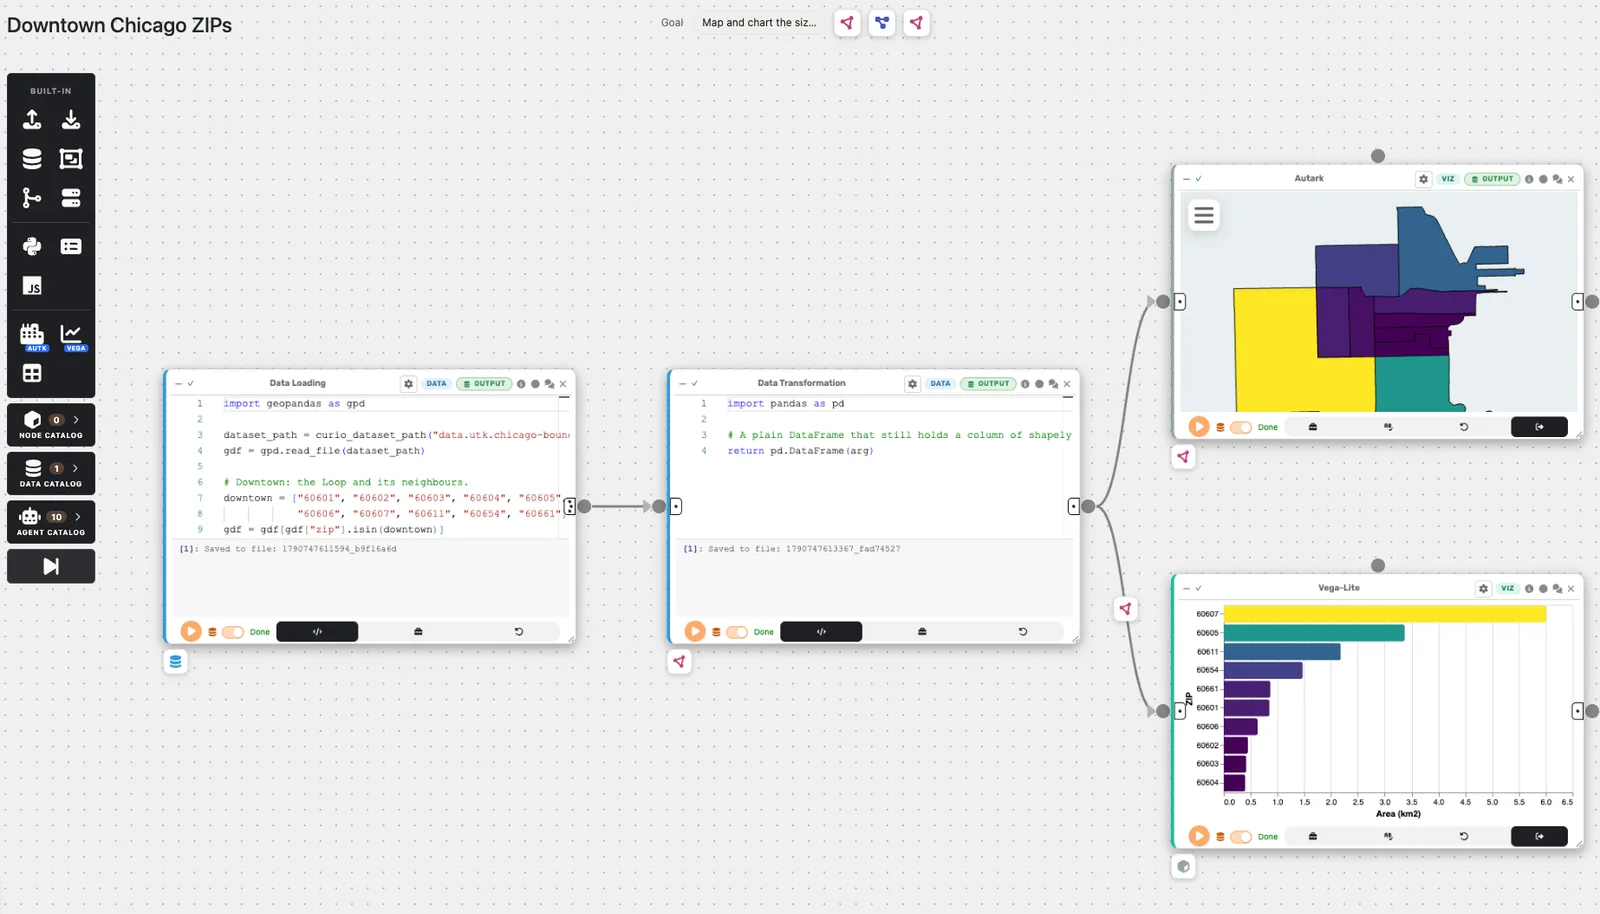
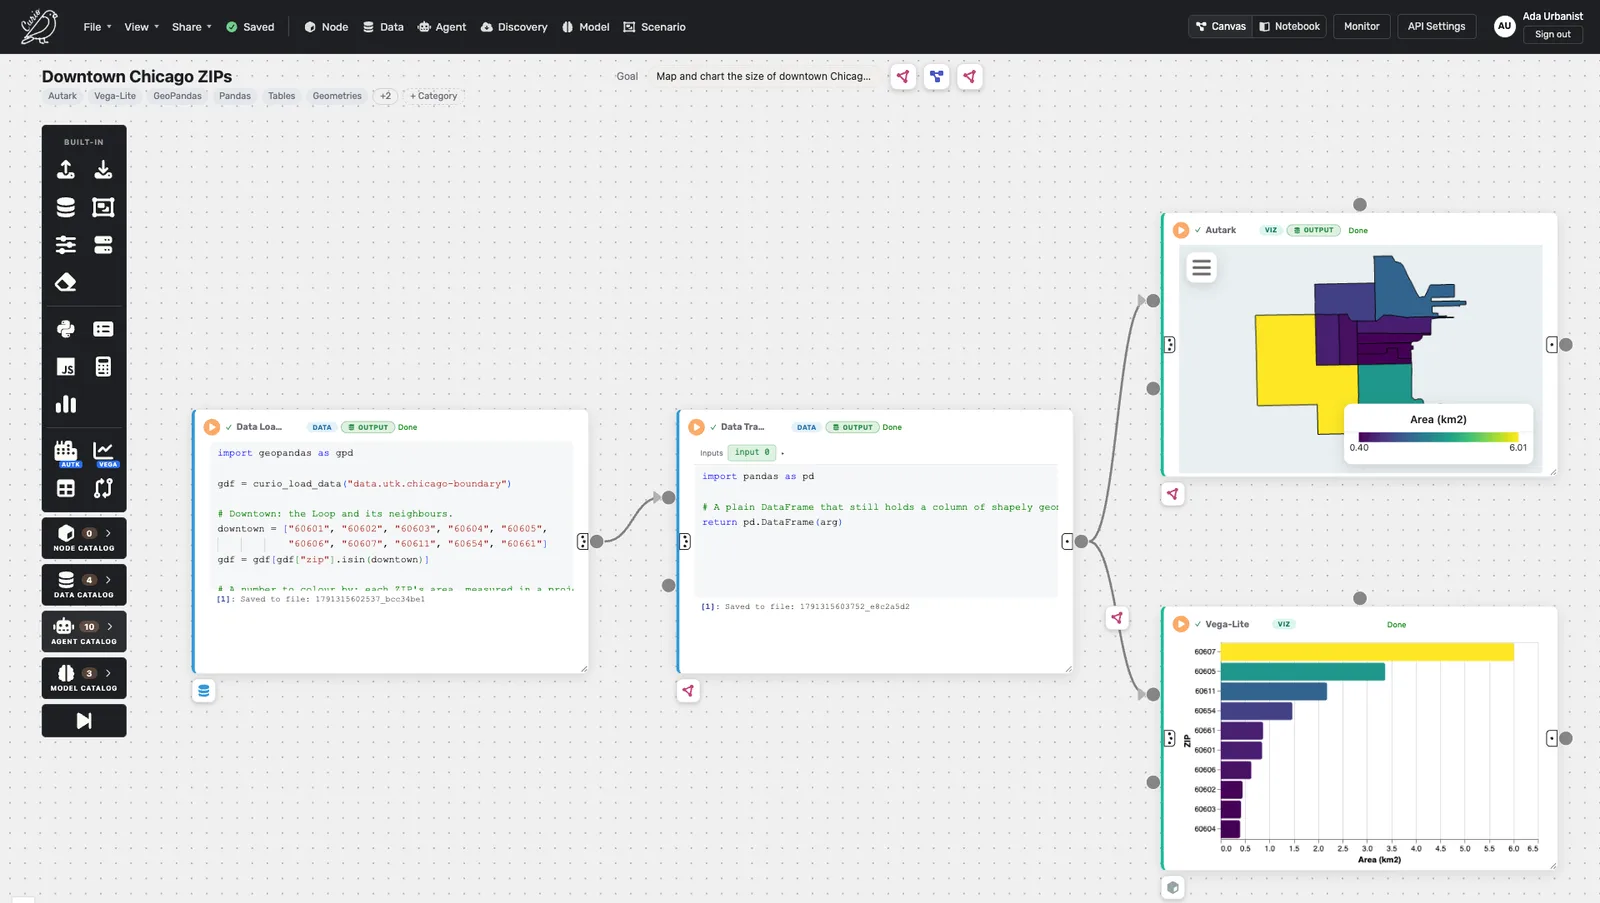
Scenarios, Scenario Catalog, widgets, SCOUT and node authoring stills; home still with the six catalog buttons

diff --git a/site/.vitepress/theme/components/CatalogFlow.vue b/site/.vitepress/theme/components/CatalogFlow.vue
@@ -96,20 +96,20 @@ interface Mark {
 }
 const SHOT: { src: string; alt: string; w: number; h: number; marks: Mark[] } = {
   src: '/media/home/catalogs.webp',
-  alt: "A dataflow in Curio: a Data Loading node and a Data Transformation node feed an Autark map and a Vega-Lite bar chart of downtown Chicago's ZIP codes, with agents attached to every node, to a connection and to the canvas.",
+  alt: "A dataflow in Curio, under the top bar with its six catalogs: a Data Loading node and a Data Transformation node feed an Autark map and a Vega-Lite bar chart of downtown Chicago's ZIP codes, with agents attached to every node, to a connection and to the canvas.",
   w: 1600,
-  h: 914,
+  h: 903,
   marks: [
-    { label: 'Load', kind: 'node', x: 163, y: 368, w: 413, h: 276 },
-    { label: 'Transform', kind: 'node', x: 667, y: 368, w: 413, h: 276 },
-    { label: 'Map', kind: 'node', x: 1171, y: 164, w: 413, h: 276 },
-    { label: 'Chart', kind: 'node', x: 1171, y: 573, w: 413, h: 276 },
-    { label: 'Dataset Finder', kind: 'agent', side: 'right', x: 160, y: 646, w: 30, h: 30 },
-    { label: 'Node Builder', kind: 'agent', side: 'right', x: 664, y: 646, w: 30, h: 30 },
-    { label: 'Chat', kind: 'agent', side: 'right', x: 1168, y: 441, w: 30, h: 30 },
-    { label: 'Connection Builder', kind: 'agent', side: 'left', x: 1110, y: 593, w: 30, h: 30 },
-    { label: 'Package Recommendation', kind: 'agent', side: 'left', x: 1168, y: 851, w: 30, h: 30 },
-    { label: 'Canvas agents', kind: 'agent', side: 'right', x: 831, y: 6, w: 102, h: 33 },
+    { label: 'Load', kind: 'node', x: 192, y: 409, w: 398, h: 265 },
+    { label: 'Transform', kind: 'node', x: 676, y: 409, w: 398, h: 265 },
+    { label: 'Map', kind: 'node', x: 1161, y: 212, w: 398, h: 265 },
+    { label: 'Chart', kind: 'node', x: 1161, y: 606, w: 398, h: 265 },
+    { label: 'Dataset Finder', kind: 'agent', side: 'right', x: 192, y: 679, w: 24, h: 24 },
+    { label: 'Node Builder', kind: 'agent', side: 'right', x: 676, y: 679, w: 24, h: 24 },
+    { label: 'Chat', kind: 'agent', side: 'right', x: 1161, y: 482, w: 24, h: 24 },
+    { label: 'Connection Builder', kind: 'agent', side: 'left', x: 1105, y: 606, w: 24, h: 24 },
+    { label: 'Package Recommendation', kind: 'agent', side: 'left', x: 1161, y: 876, w: 24, h: 24 },
+    { label: 'Canvas agents', kind: 'agent', side: 'right', x: 890, y: 63, w: 93, h: 27 },
   ],
 }
 const pct = (n: number, of: number) => `${Math.round((n / of) * 10000) / 100}%`

diff --git a/site/scenario-catalog.md b/site/scenario-catalog.md
@@ -15,18 +15,28 @@ The Scenario Catalog lists the [scenarios](/scenarios/) of all your projects, th
 
 ## Browse the scenarios
 
-Open the **Scenario Catalog** tab at the top of the Projects page. Each card shows a scenario's name in its color, its project, how many nodes it holds, its description and its project's graph. Search by name, description or project, sort by **Recently edited**, **Name** or **Project**, and filter by project or by origin (**Your dataflows** or **Examples**) in the left rail.
+Open the **Scenario Catalog** tab at the top of the Projects page. Each card shows a scenario's name in its color, its project, how many nodes it holds, its description and its project's graph. Search by name, description or project, sort by **Recently edited**, **Name** or **Project**, and filter by project or by origin (**Your dataflows** or **Examples**) in the left rail. The drawer on the right sums up the selected scenario.
+
+<GuideFigure src="/media/scenario-catalog/browse.webp" alt="The Scenario Catalog page" caption="The Scenario Catalog: the scenarios of example 06 and of the SCOUT dataflows. Baseline is selected, and the drawer on the right shows its project&#x27;s graph and how many levers, fixed context nodes and outcomes it has." :w="1280" :h="768" />
 
 **View details** shows the project's graph, with the scenario's nodes in its color and its fixed context outlined, and three lists: **Fixed context**, **Levers** and **Outcomes**, each node with the output its project saved. An outcome with **No saved output** has not run since the scenario was defined. **Open source project** opens the project on the canvas.
 
+<GuideFigure src="/media/scenario-catalog/details.webp" alt="The details of the Baseline scenario" caption="View details for Baseline: its nodes in blue on the project&#x27;s graph, the Data Pool outlined as its fixed context, then the three lists, each node with the output its project saved." :w="1200" :h="880" />
+
 ## Bring a scenario into another dataflow
 
-On the canvas, click **Scenario** in the top bar to open the catalog's drawer, and drag a scenario's card onto the canvas. It arrives as a copy, collapsed where you dropped it, in its own color:
+On the canvas, click **Scenario** in the top bar to open the catalog's drawer, and drag a scenario's card onto the canvas.
+
+<GuideFigure src="/media/scenario-catalog/drawer.webp" alt="The Scenario Catalog drawer over an empty dataflow" caption="The Scenario Catalog drawer over a new dataflow: each scenario&#x27;s card, ready to drag onto the canvas." :w="1280" :h="768" />
+
+It arrives as a copy, collapsed where you dropped it, in its own color:
 
 - its levers are copied, each naming the node it was copied from;
 - its fixed context arrives as **Data Loading** nodes that read copies of what its project saved, wired where the context was, and a Parameter node of its context comes with its value;
 - its outcomes show the results its project saved, before anything runs;
 - the packages its nodes use are added to the dataflow.
+
+<GuideFigure src="/media/scenario-catalog/dropped.webp" alt="A dropped scenario: a Data Loading node wired to a collapsed box" caption="Twice as tall from example 06, dropped: a Data Loading node reads a copy of the Data Pool&#x27;s saved output, and the collapsed box shows its outcome done, before anything runs." :w="930" :h="370" />
 
 Editing the copy leaves the original as it is. A second scenario of the same project, dragged into the same dataflow, shares the fixed context the first one brought.
 

diff --git a/site/scout.md b/site/scout.md
@@ -27,7 +27,15 @@ The four dataflows are in the examples every account starts with, under **By sou
 - **Accumulated Shadow**, from the SCOUT Shadow package, runs Deep Umbra, SCOUT's shadow model in the [Model Catalog](/model-catalog/), on that mosaic. It gives the minutes of a day the ground spends in shadow, as a raster on the same grid; its **Season** widget picks spring, summer or winter.
 - **Raster Statistics** then gives the mean and median shadow over the ground.
 
-Example 24, "SCOUT building rasters", runs them on the buildings of SCOUT's Chicago Loop example: the buildings in 3D, the height mosaic and the summer shadow on Autark maps, and the mean and median shadow. ScoutShadows compares two scenarios of the same buildings over a shared season, Existing and Towers removed (15 buildings taken out): one Compare Scenarios node charts the mean shadow, and another maps its change.
+Example 24, "SCOUT building rasters", runs them on the buildings of SCOUT's Chicago Loop example: the buildings in 3D, the height mosaic and the summer shadow on Autark maps, and the mean and median shadow. Each map opens on a much wider area than the Loop; the mouse wheel over a map zooms in.
+
+<GuideFigure src="/media/scout/buildings-3d.webp" alt="An Autark map of the Chicago Loop's buildings in 3D" caption="Example 24: the Loop&#x27;s buildings in 3D, colored by their height in metres, zoomed in with the mouse wheel." :w="532" :h="356" />
+
+<GuideFigure src="/media/scout/height-mosaic.webp" alt="An Autark map of the height mosaic" caption="The height mosaic Rasterize Buildings makes of them: one raster on SCOUT&#x27;s zoom-16 tile grid, each cell a height." :w="532" :h="356" />
+
+<GuideFigure src="/media/scout/summer-shadow.webp" alt="An Autark map of the summer shadow" caption="Deep Umbra&#x27;s summer shadow on the same grid: the minutes of the day each cell spends in shadow, darker where it is longer." :w="532" :h="356" />
+
+ScoutShadows compares two scenarios of the same buildings over a shared season, Existing and Towers removed (15 buildings taken out): one Compare Scenarios node charts the mean shadow, and another maps its change.
 
 Deep Umbra ships with Curio's repository and its Docker image, but not with the pip package; on a pip install, Accumulated Shadow says the model is missing and how to add it.
 

diff --git a/site/widgets.md b/site/widgets.md
@@ -44,6 +44,8 @@ A **Parameter** node holds one widget that any node of the dataflow can read, su
 
 A Parameter node has no connections. It lists the nodes whose code uses it, and changing its value marks them as needing a new run. **Edit** renames it, and their code follows the new name. Pinned to the [dashboard](/dashboards/), it shows its value.
 
+<GuideFigure src="/media/widgets/parameter.webp" alt="A location Parameter node beside a Data Loading node that reads it" caption="From the FloodScenarios dataflow: the Top-left corner Parameter node, a location, lists the three nodes whose code uses it. Beside it, a Data Loading node shows the shared tags above its code and the amber chips in it." :w="1190" :h="360" />
+
 ## Hand a node what you selected
 
 A selection tag gives a node's code the rows you selected in a view: a brush or a click in a Vega-Lite chart, or a pick or a brush in an Autark map or plot.
@@ -61,3 +63,5 @@ return arg[arg["osm_id"].isin(picked)]
 ```
 
 With nothing selected, the list is empty. A new selection marks the node as needing a new run, and the ids are saved with the dataflow. A tag holds at most 10,000 ids.
+
+<GuideFigure src="/media/widgets/selection-tag.webp" alt="An Autark map with one ZIP code picked, and a Python node that reads it" caption="From example 17: a ZIP code picked on an Autark map with a double-click, and a Python node whose code reads the picked ZIP codes through the zips selection tag, a peach chip. The node printed the one it was handed." :w="1220" :h="800" />

diff --git a/site/scenarios.md b/site/scenarios.md
@@ -44,7 +44,11 @@ Each copy remembers the node it was copied from.
 
 Pointing at a scenario in the panel marks its fixed context on the canvas.
 
+<GuideFigure src="/media/scenarios/panel.webp" alt="Example 06 with the Scenarios panel open" caption="The Scenarios panel beside example 06: each scenario&#x27;s fixed context, levers and outcomes, and its commands. Pointing at Baseline marks the Data Pool, the fixed context it reads." :w="1480" :h="890" />
+
 A collapsed scenario is one box in its color that lists its fixed context and its outcomes with their latest output. Its connections are drawn to the box, and dragging the box moves it. Double-click the box to expand it in place. A collapsed scenario's nodes still run with **Run All**, and the context they share runs once.
+
+<GuideFigure src="/media/scenarios/collapsed.webp" alt="The Baseline scenario collapsed into one box" caption="Baseline collapsed into one box: the Data Pool it reads, and its outcome, Roads by sunlight, done. The connection from the pool and those to the Compare Scenarios nodes are drawn to the box." :w="1260" :h="960" />
 
 The nodes of a scenario's fixed context and its outcomes save their outputs to your [Data Catalog](/data-catalog/) when they run, whatever their **Save output** setting, so the [Scenario Catalog](/scenario-catalog/) can show them and other dataflows can use them. Scenarios, their colors, descriptions and collapsed state are saved with the dataflow.
 

diff --git a/site/authoring-nodes.md b/site/authoring-nodes.md
@@ -36,6 +36,8 @@ A package that ships Python modules beside its templates gives you a node for an
 3. For each parameter, choose what it gets: a [widget](/widgets/), whose type Curio suggests from the parameter's annotation or default; a fixed value, written as Python writes it; an input of the node; or its default.
 4. Name the node, choose the package it goes into, and click **Create node**.
 
+<GuideFigure src="/media/authoring-nodes/node-from-function.webp" alt="The New node from a Python function dialog" caption="New node from a Python function, for season_factor in the SCOUT Shadow package: its season parameter becomes a text widget that starts at winter, and the node goes into a new package." :w="720" :h="720" />
+
 The node joins the project's palette. Its code imports the function and returns its call, with the widgets and inputs as chips:
 
 ```python
